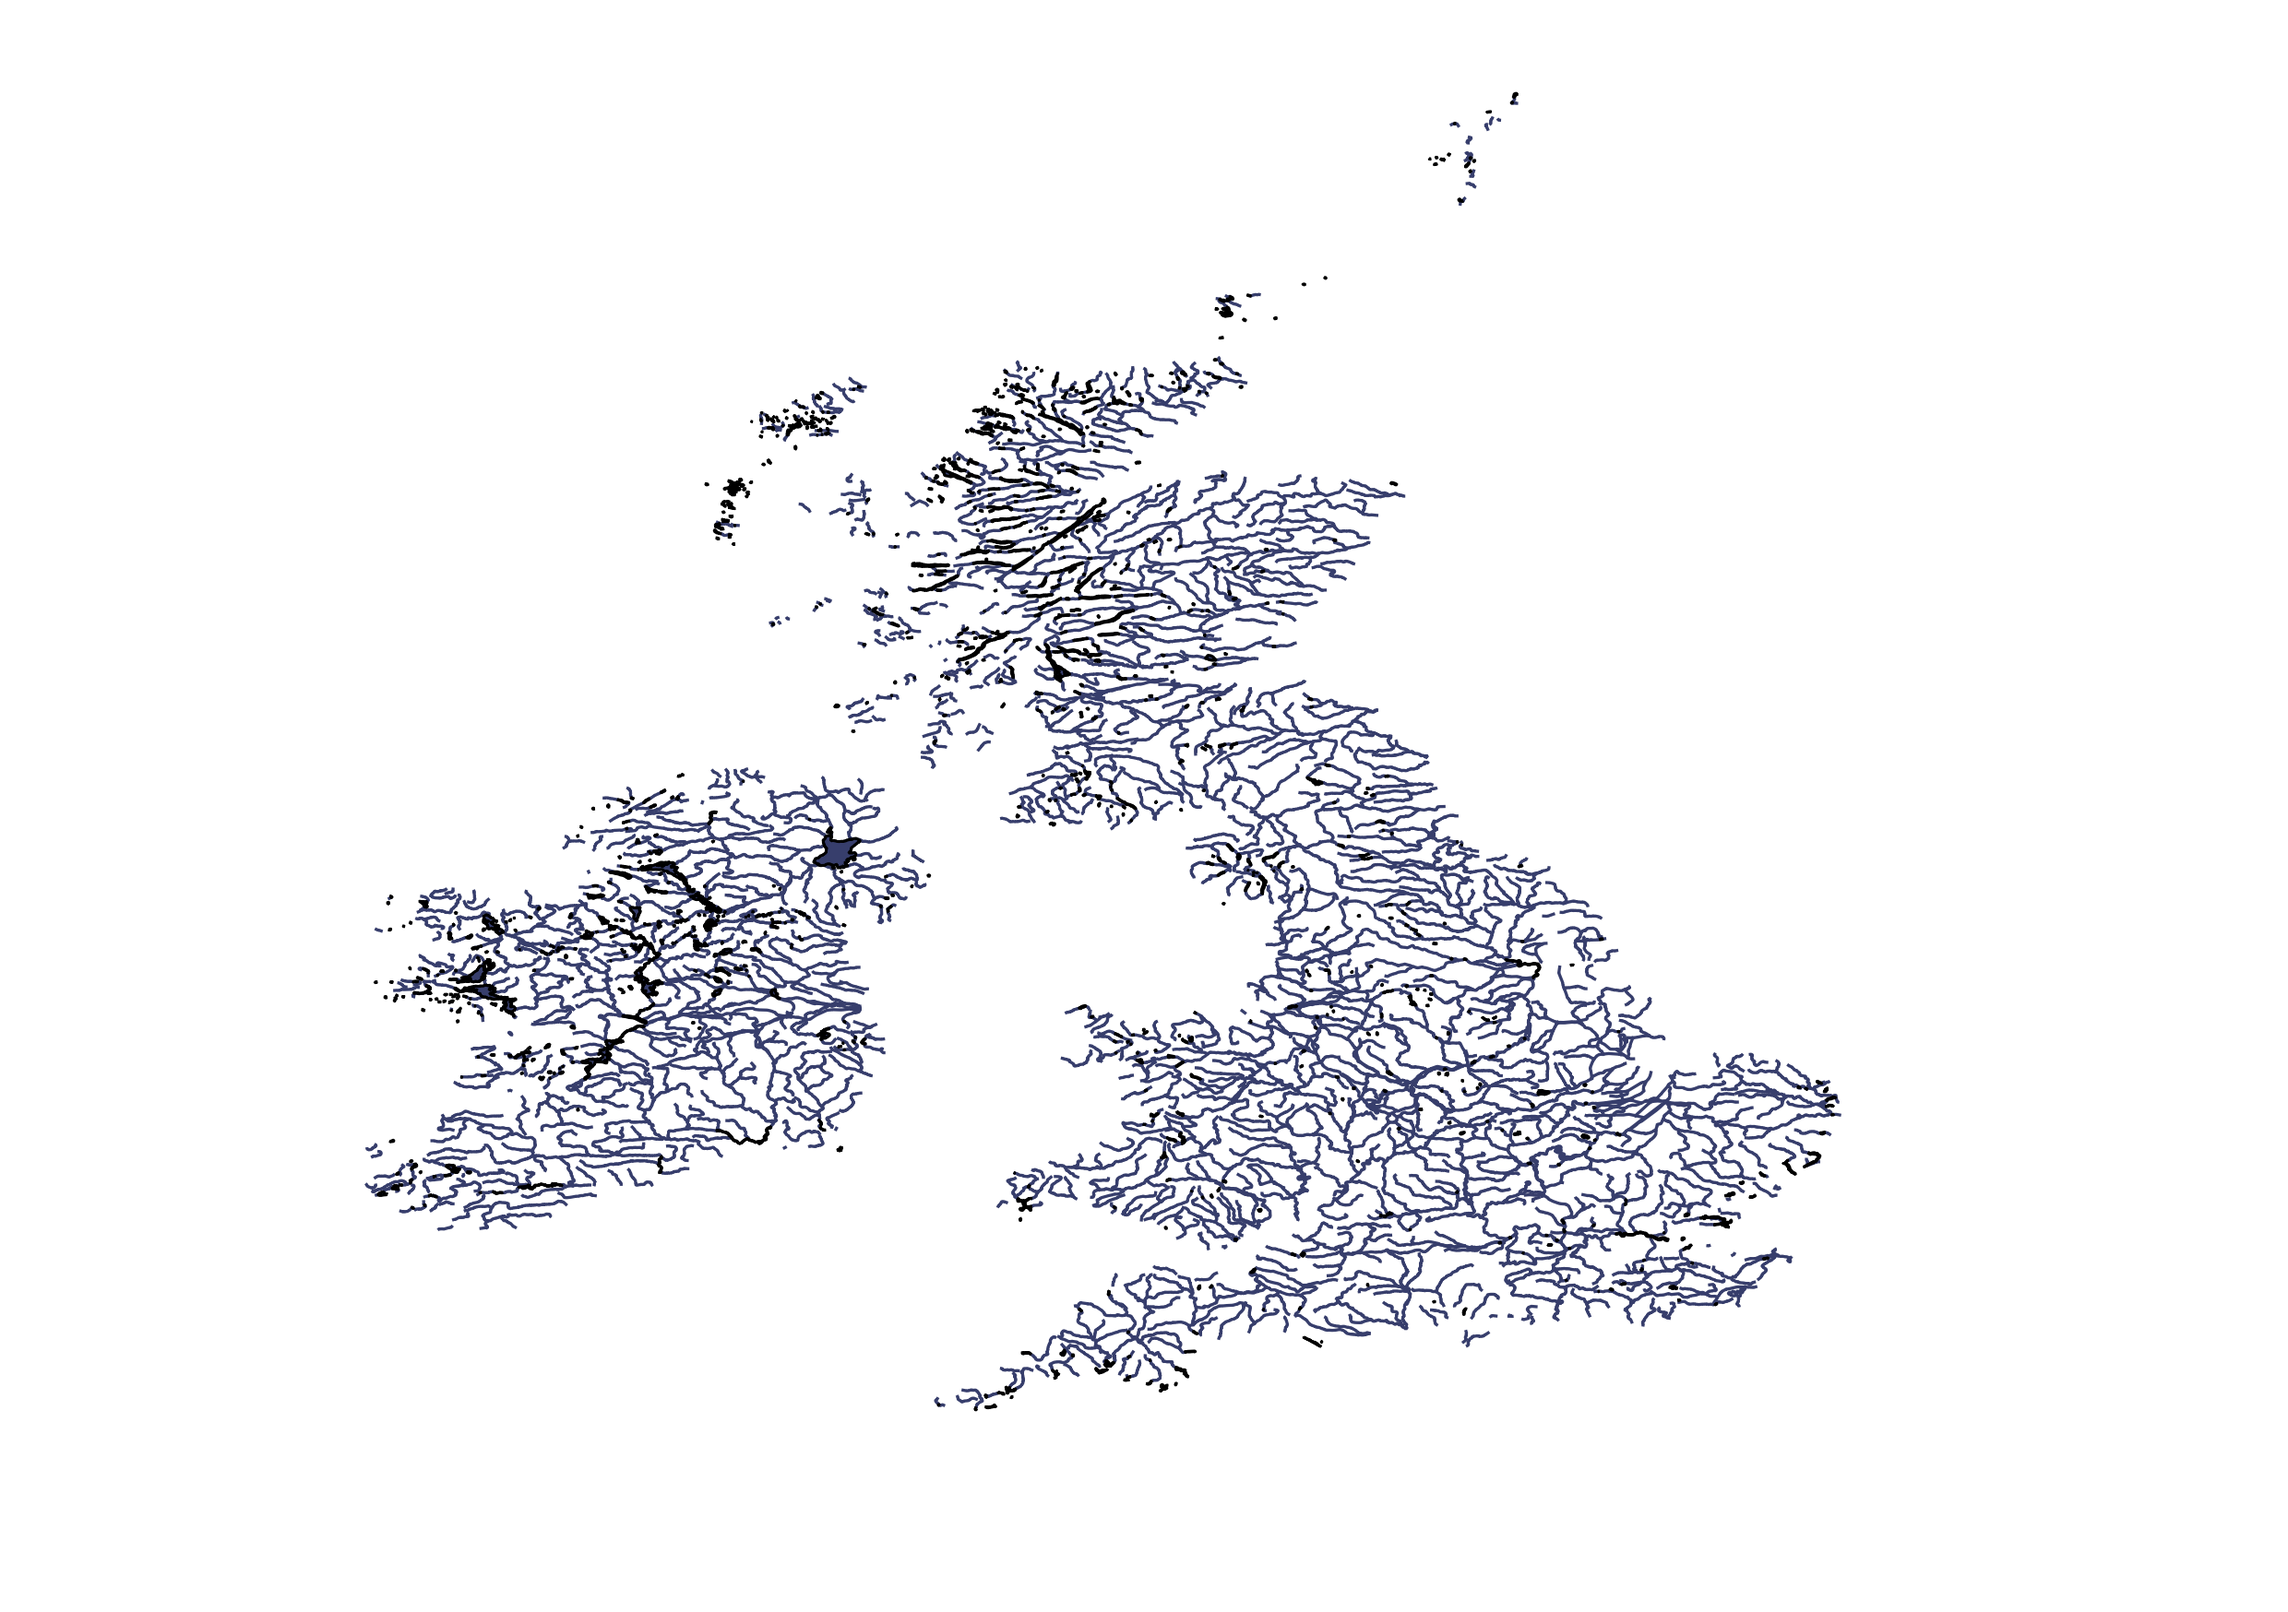
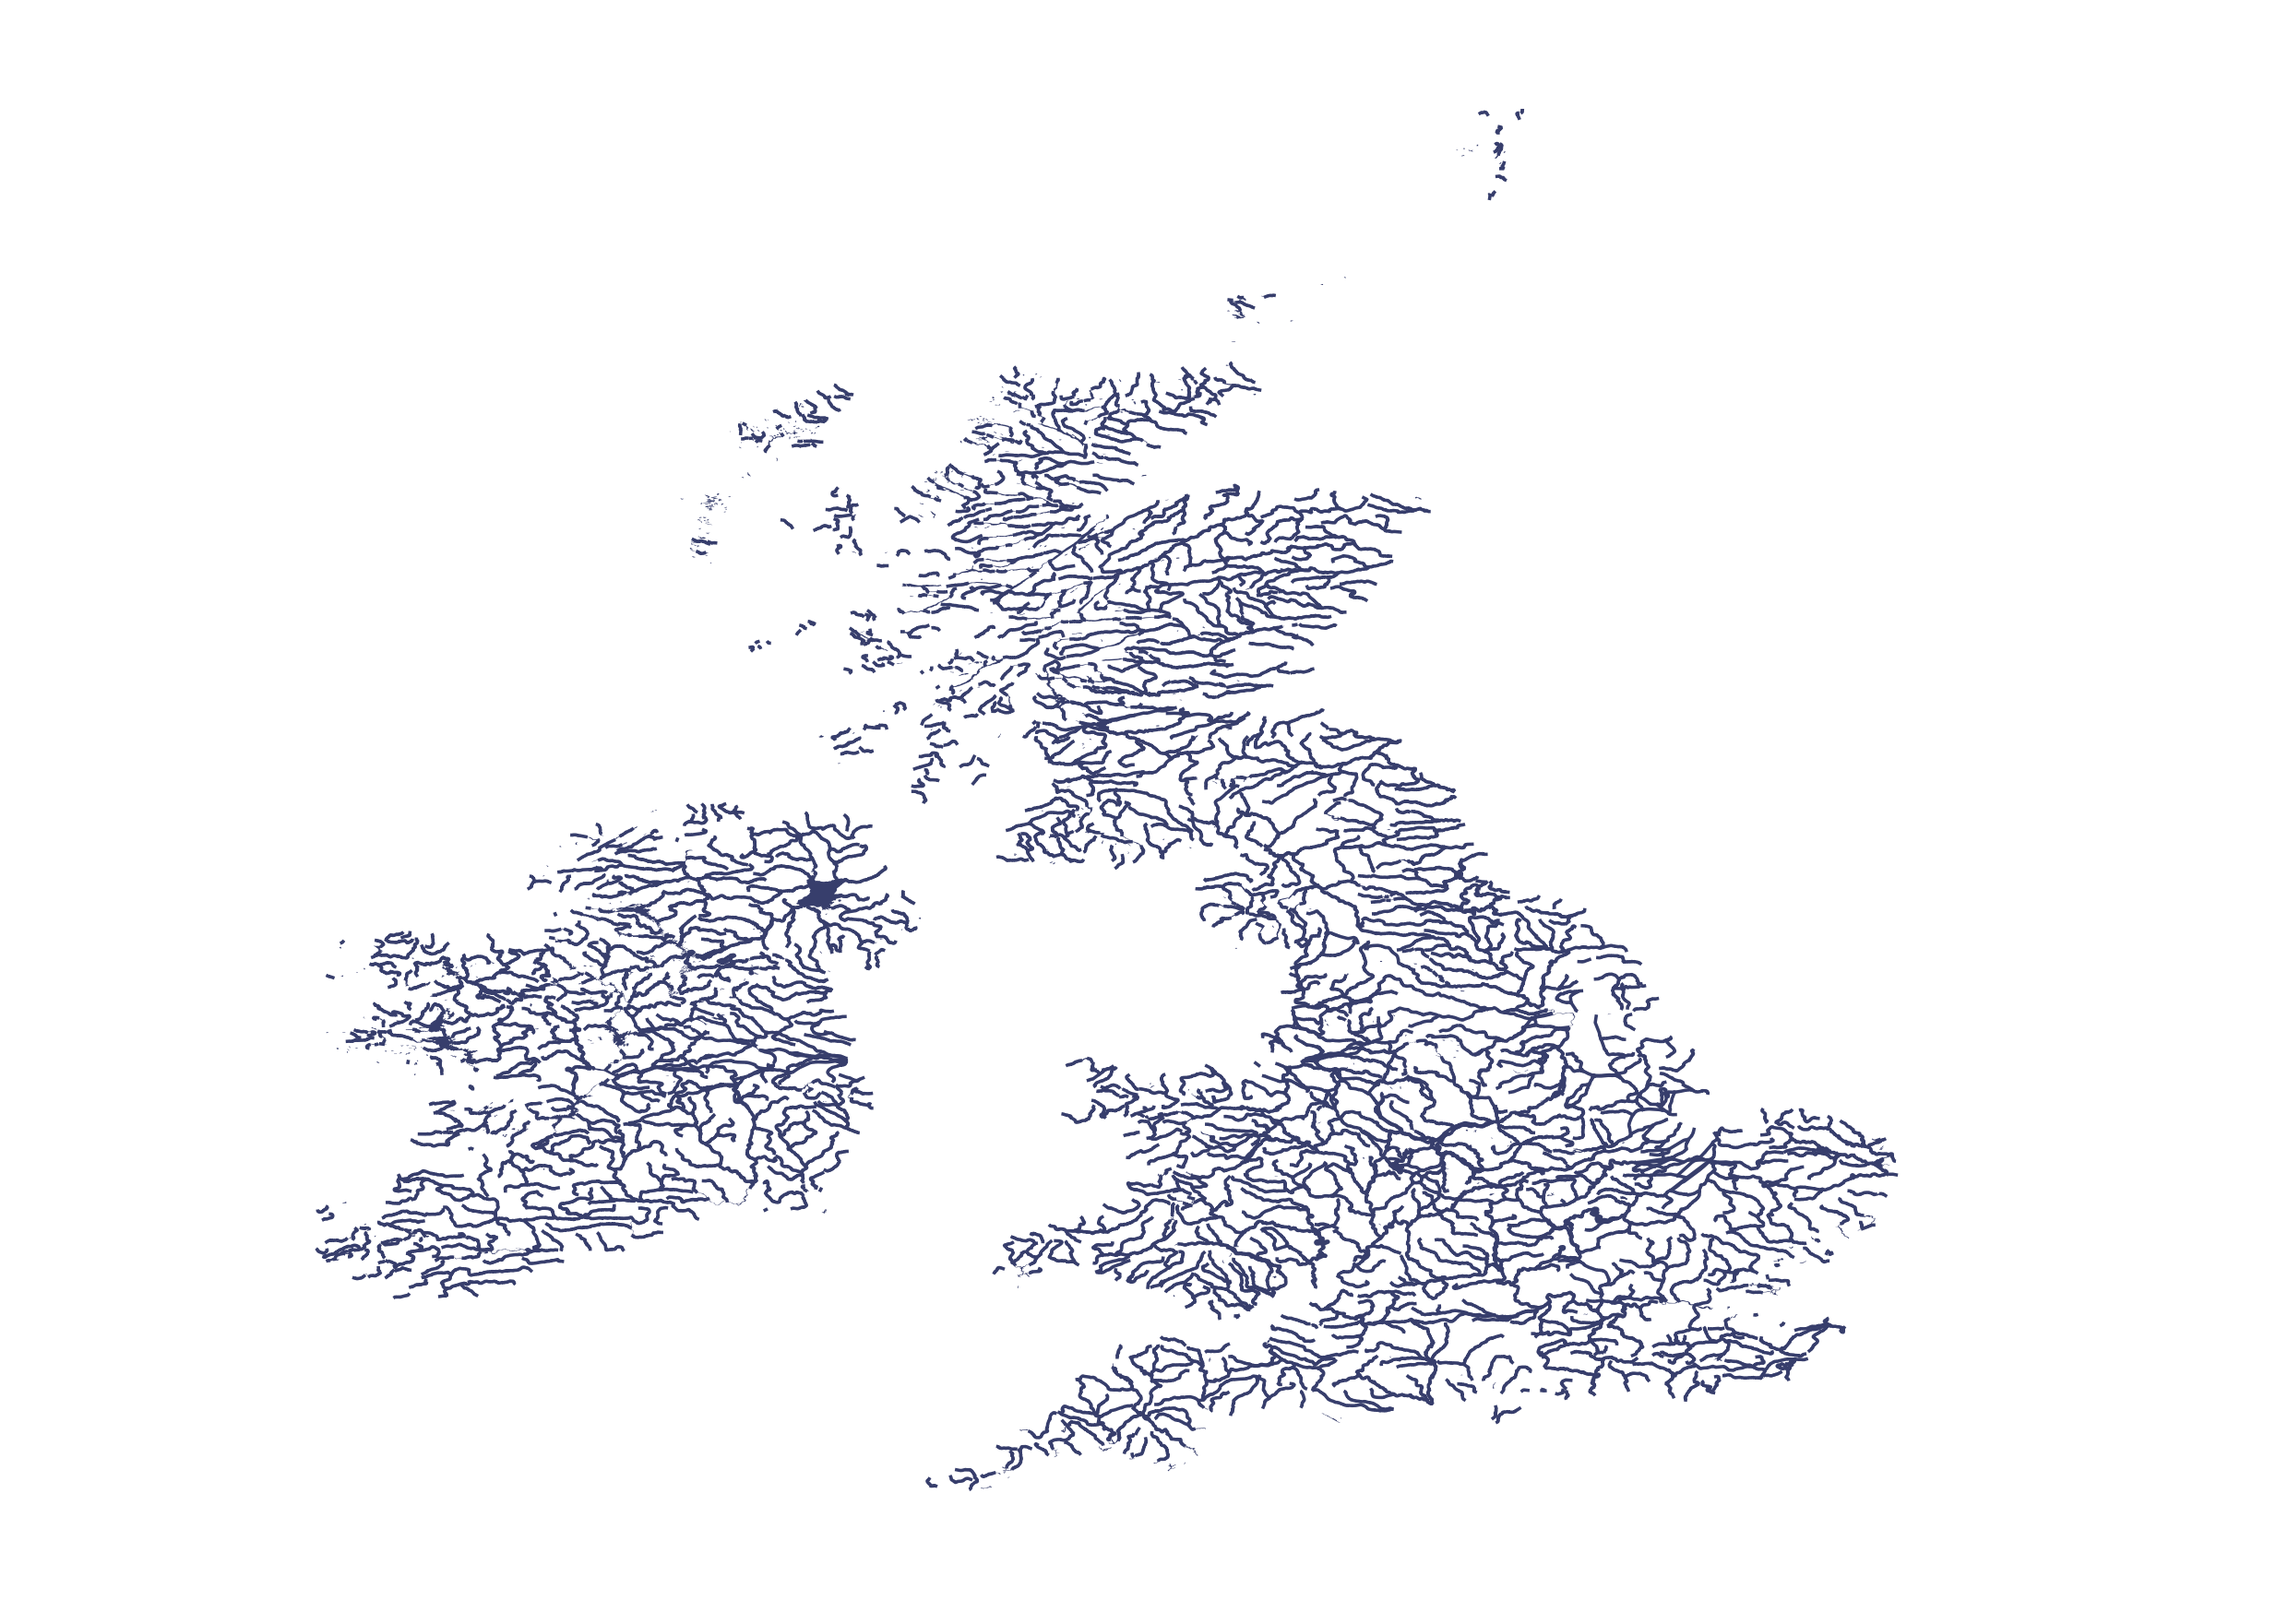
Added a new entry to hot air about GIS

Changed region(s): [[0.1242, 0.1854, 0.8383, 0.9268], [0.621, 0.0927, 0.652, 0.1236]]

diff --git a/hot_air.html b/hot_air.html
@@ -55,7 +55,32 @@ This is script for google analytics - for me to see how many people visit my sit
 --->
 
  <!-- --------------------------------------------------------------------------------------------------------------- --> 
-           
+  
+    <div class="entries">
+        <p class="hotair_title"> Rivers, Road and Rail with GIS -  17/03/2015
+        </p>
+        <p class="hotair_body">
+          After upgrading my laptop with a lot more RAM and a new SSD I though I would have my first foray into GIS. I've started with making a very simple set of maps. Below are three maps of the UK and Ireland, the first with only rivers and lakes showing, the second with only the rail netowrk and the third with only major roads. 
+        </p>
+        <p class="hotair_body">
+            It was surprisingly easy to set this up and I'm sure its something that could be done in a flash by someone who knows what they are doing. Even though its small steps I really like how you can see the outline of the countries by just the infrastructure. I also like that it shows how sparse the north of the UK is as well as the west coast of Ireland. 
+        </p>
+        
+    <div class="hot_air_div3">
+        <a href="pics/GBR_rivers_crop.png"><img class="hot_air_pics3" src="pics/GBR_rivers_crop.png"></a>
+        <a href="pics/GBR_rail_crop.png"><img class="hot_air_pics3" src="pics/GBR_rail_crop.png"></a>
+        <a href="pics/GBR_road_crop.png"><img class="hot_air_pics3" src="pics/GBR_road_crop.png"></a>
+    </div>
+        
+    <p class="hotair_body">
+           Now to find some more litte projects to make and maps to explore. The end plan is to create a good way of presenting the air quality data that I am modelling. This may be a long way off yet.
+    </p>
+        
+    </div>
+   <div id="spacer"></div> 
+
+
+ <!-- --------------------------------------------------------------------------------------------------------------- -->          
     <div class="entries">
         <p class="hotair_title">
             Plume Tracking - 05/02/2015

diff --git a/style.css b/style.css
@@ -183,6 +183,15 @@ p{
     text-align:center;
     vertical-align:middle;
 }
+
+.hot_air_div3{
+    height:250px;
+    margin-left:auto;
+    margin-right:auto;
+    text-align:center;
+    vertical-align:middle;
+}
+
 .hot_air_pics{
     margin-left:auto;
     margin-right:auto;
@@ -194,6 +203,14 @@ p{
     margin-right:auto;
     height:200px;
 }
+
+.hot_air_pics3{
+    display:inline-block;
+    margin-left:auto;
+    margin-right:auto;
+    height:250px;
+}
+
 .hotair_title{
     font-size: 1.1em;
     font-family:'code_regular',Arial,sans-serif;
